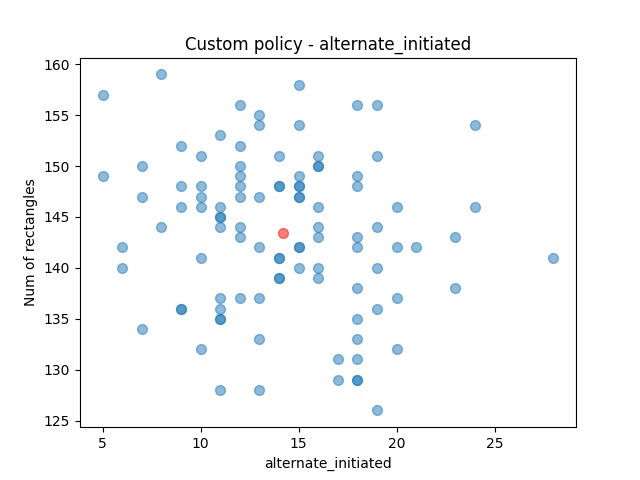
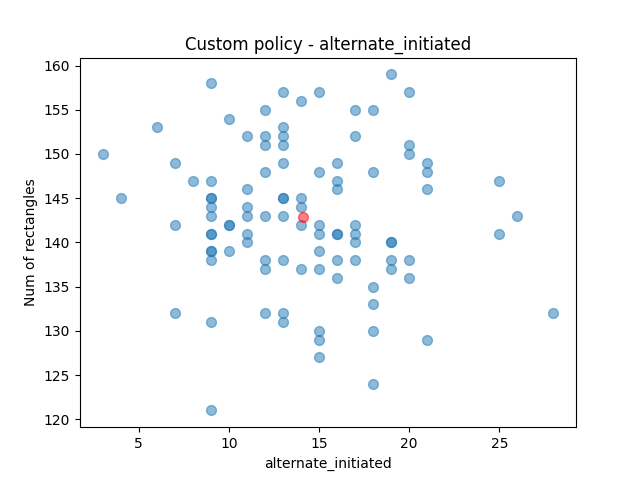
fixed a bug in alternate updation

diff --git a/policies.py b/policies.py
@@ -172,7 +172,7 @@ class CustomPolicy(Container):
             # if the height of the rectangle is the lane height and there is space to fit
             if (strip_h == rec_height):
                 ret =  self.check_if_rect_fits_in_strip(strip_num, rectangle)
-                if ret is not (None, None):
+                if ret != (None, None):
                     return ret
 
         return None, None
@@ -217,7 +217,7 @@ class CustomPolicy(Container):
             if strip_h == rec_height:
                 self.perf_counters['EQUIFILL']['NATIVE']      += 1
                 ret =  self.check_if_rect_fits_in_strip(strip_num, rectangle)
-                if ret is not (None, None):
+                if ret != (None, None):
                     possible_strip_index.append(strip_num)
                 
         #alternate strip heights SEARCH
@@ -226,7 +226,7 @@ class CustomPolicy(Container):
                 if strip_h == rec_height:
                     self.perf_counters['EQUIFILL']['ALTERNATE']      += 1
                     ret =  self.check_if_rect_fits_in_strip(strip_num, rectangle)
-                    if ret is not (None, None):
+                    if ret != (None, None):
                         #ignore blocks in which invalid block is present - NOT NEEDED
                         # if (ret[1] is None or (ret[1] is not None and ret[1]<0)):
                         possible_strip_index.append(strip_num)
@@ -312,23 +312,29 @@ class CustomPolicy(Container):
             if strip_grp_num < self.LARGEST_STRIP_GRP_INDEX:
                 even_row_num, odd_row_num = 2*strip_grp_num, 2*strip_grp_num+1
 
-                if self.occupied_strip_width[strip_grp_num*2] > self.occupied_strip_width[strip_grp_num*2+1]:
-                    #even strip is longer
-                    longer_strip = strip_grp_num*2
-                    other_strip = strip_grp_num*2 + 1
+                if self.invalid_range[even_row_num] is not None:
+                    strip_fill_even = self.invalid_range[even_row_num][1]   #end of invalid
                 else:
-                    #odd strip is longer
-                    other_strip = strip_grp_num*2
-                    longer_strip = strip_grp_num*2 + 1
-
-                max_occupied_width = self.occupied_strip_width[longer_strip]
-
-                if self.invalid_range[other_strip] is None:
-                    #there was no invalid block in this strip, earlier
-                    self.invalid_range[other_strip] = [max_occupied_width, max_occupied_width + rectangle.width]
+                    strip_fill_even = self.occupied_strip_width[even_row_num]
+                if self.invalid_range[odd_row_num] is not None:
+                    strip_fill_odd = self.invalid_range[odd_row_num][1]    #end of invalid
                 else:
-                    self.invalid_range[other_strip][1] += rectangle.width
-                self.occupied_strip_width[longer_strip] = max_occupied_width + rectangle.width
+                    strip_fill_odd = self.occupied_strip_width[odd_row_num]
+
+                max_occupied_width = max(strip_fill_odd, strip_fill_even)
+                
+                #update both the strips in the group
+                for index in [even_row_num, odd_row_num]:
+                    if self.invalid_range[index] is not None:
+                        self.invalid_range[index][1] += rectangle.width
+                    else:
+                        # no invalid is present already
+                        if (max_occupied_width != self.occupied_strip_width[index]):
+                            #instantiate an invalid block now
+                            self.invalid_range[index] = [max_occupied_width, max_occupied_width + rectangle.width]
+                        else:
+                            #just extend the fill percentage
+                            self.occupied_strip_width[index] += rectangle.width
 
                 return max_occupied_width, self.strip_height_off[even_row_num]
             else: # 16 blocks

diff --git a/analyse_pref.py b/analyse_pref.py
@@ -38,3 +38,4 @@ if __name__ == '__main__':
         plot_stats(stats, 3, 'equifill_add_n_comp')
         plot_stats(stats, 4, 'alternate_add_n_comp')
         plot_stats(stats, 5, 'alternate_max')
+        plot_stats(stats, 6, 'alternate_initiated')
